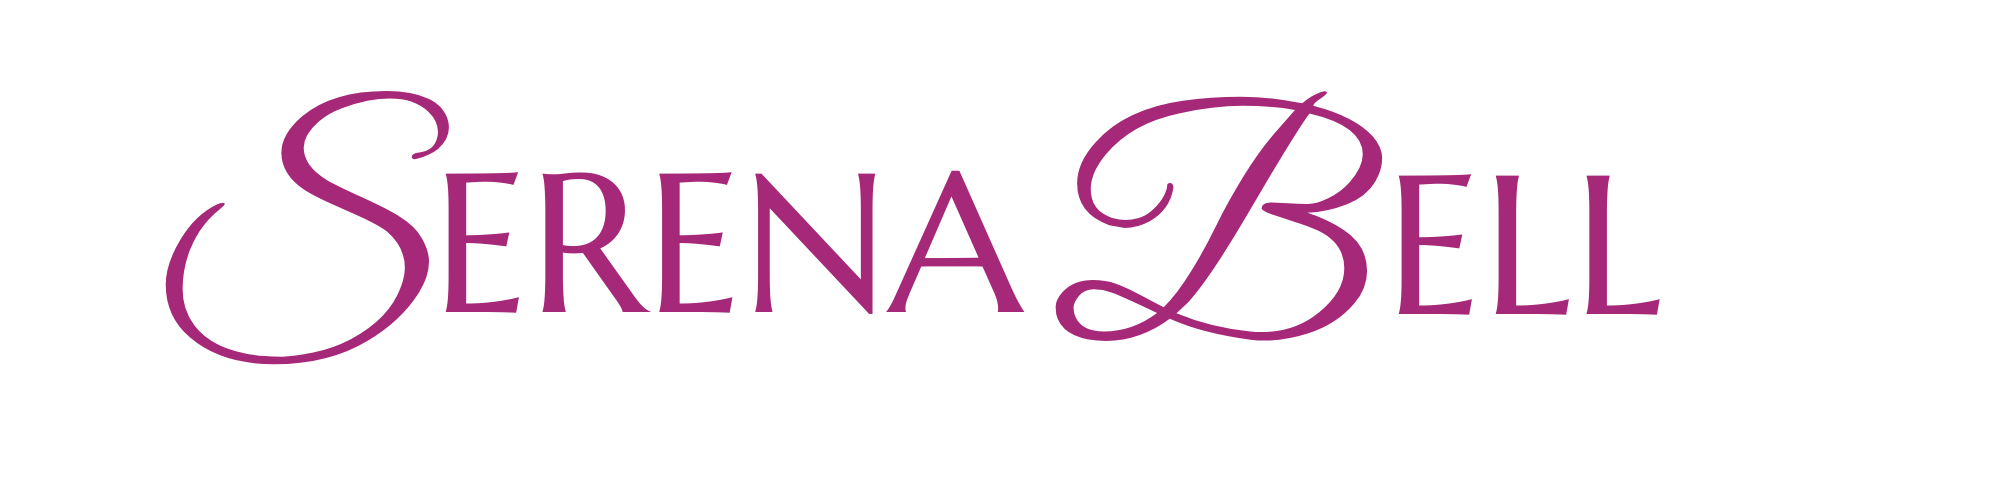
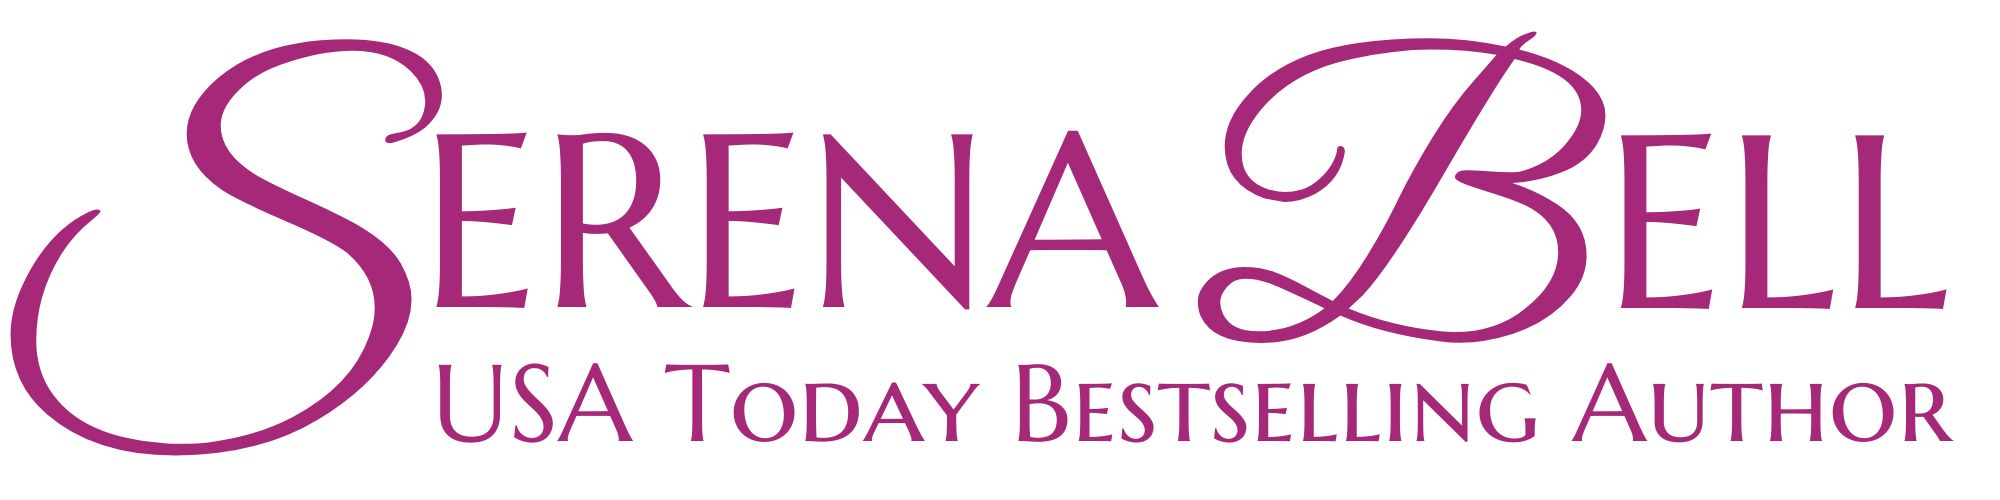
chose a color for the site background; worked on designing the site header

Changed region(s): [[0.0, 0.06, 0.992, 0.93], [0.031, 0.42, 0.062, 0.48]]

diff --git a/static/css/colors.css b/static/css/colors.css
@@ -1,3 +1,109 @@
+
+//
+.slate-gray {
+  color: #757D89;
+  &:visited {
+    color: #757D89
+  }
+}
+.bg-slate-gray {
+  background-color: #757D89;
+}
+.b--slate-gray {
+  border-color: #757D89;
+}
+.hover-bg-slate-gray {
+  &:focus,
+  &:active,
+  &:hover {
+    background-color: #757D89;
+  }
+}
+.hover-bg-slate-grayn:hover,
+.hover-bg-slate-gray:visited:hover {
+  color: #757D89;
+}
+
+//
+
+.rosy-brown {
+  color: #B88AAD;
+  &:visited {
+    color: #B88AAD
+  }
+}
+.bg-rosy-brown {
+  background-color: #B88AAD;
+}
+.b--rosy-brown {
+  border-color: #B88AAD;
+}
+.hover-bg-rosy-brown {
+  &:focus,
+  &:active,
+  &:hover {
+    background-color: #B88AAD;
+  }
+}
+.hover-bg-rosy-brown:hover,
+.hover-bg-rosy-brown:visited:hover {
+  color: #B88AAD;
+}
+
+//
+
+.old-rose {
+  color: #A62878;
+  &:visited {
+    color: #A62878
+  }
+}
+.bg-old-rose {
+  background-color: #A62878;
+}
+.b--old-rose {
+  border-color: #A62878;
+}
+.hover-bg-old-rose {
+  &:focus,
+  &:active,
+  &:hover {
+    background-color: #A62878;
+  }
+}
+.hover-bg-old-rose:hover,
+.hover-bg-old-rose:visited:hover {
+  color: #A62878;
+}
+
+//
+
+.barely-lsb {
+  color: #f0f4fa;
+  &:visited {
+    color: #f0f4fa
+  }
+}
+.bg-barely-lsb {
+  background-color: #f0f4fa;
+}
+.b--barely-lsb {
+  border-color: #f0f4fa;
+}
+.hover-bg-barely-lsb {
+  &:focus,
+  &:active,
+  &:hover {
+    background-color: #f0f4fa;
+  }
+}
+.hover-bg-barely-lsb:hover,
+.hover-bg-barely-lsb:visited:hover {
+  color: #f0f4fa;
+}
+
+//
+
 .dark-slate-gray {
   color: #3A4454;
   &:visited {
@@ -21,6 +127,8 @@
 .hover-bg-dark-slate-gray:visited:hover {
   color: #3A4454;
 }
+
+//
 
 .light-steel-blue {
   color: #D5D9DF;

diff --git a/layouts/partials/site-header.html b/layouts/partials/site-header.html
@@ -2,10 +2,10 @@
 {{/* Trimming the slash and adding absURL make sure the image works no matter where our site lives */}}
 {{ $featured_image := (trim $featured_image "/") | absURL }}
 <header class="cover bg-top" style="background-image: url('{{ $featured_image }}');">
-      <div class="tc-l pt4 pt6-l pb0 ph3 ph4-ns mb0">
+      <div class="tc pt5 pt6-l pb0 ph3 ph4-ns mb0">
 		<img src="/images/transparent-sb-script.png" class="mw-4 mh-2" alt="Serena Bell script">
       </div>
-	  <div class="tc-l pt0 pt0-l mt0 pb4 pb6-l">
+	  <div class="tc pt0 pt0-l mt0 pb4 pb6-l">
 		  {{ partialCached "social-follow.html" . }}
 	  </div>
 	 <div class="tc-l {{ .Site.Params.background_color_class | default "bg-black" }}">

diff --git a/layouts/partials/site-navigation.html b/layouts/partials/site-navigation.html
@@ -1,11 +1,12 @@
 <nav class="pv3 ph3 ph4-ns" role="navigation">
- <div class="flex-l justify-between items-center center">
     <div class="flex-l center items-center">
       {{ partial "i18nlist.html" . }}
 	  
       {{ if .Site.Menus.main }}
-        <ul class="pl0 mr3">
+        <ul class="tc lh-copy pl0 mr3 ml3">
+	     
           {{ range .Site.Menus.main }}
+		    
           <li class="list f5 f4-ns fw4 dib pr3">
             <a class="hover-white no-underline white-90" href="{{ .URL }}" title="{{ .Name }} page">
               {{ .Name }}
@@ -16,5 +17,4 @@
       {{ end }}
 	     
     </div>
-  </div>
 </nav>

diff --git a/layouts/_default/baseof.html b/layouts/_default/baseof.html
@@ -48,7 +48,7 @@
     {{ end }}
   </head>
 
-  <body class="ma0 {{ $.Param "body_classes"  | default "avenir bg-near-white"}}{{ with getenv "HUGO_ENV" }} {{ . }}{{ end }}">
+  <body class="ma0 {{ $.Param "body_classes"  | default "avenir bg-barely-lsb"}}{{ with getenv "HUGO_ENV" }} {{ . }}{{ end }}">
 
     {{ block "header" . }}{{ partial "site-header.html" .}}{{ end }}
     <main class="pb7" role="main">

diff --git a/layouts/books/single.html b/layouts/books/single.html
@@ -18,7 +18,7 @@
       
     </header>
 	
-    <div class="nested-copy-line-height lh-copy serif f4 nested-links nested-img mid-gray pr4-l w-two-thirds-l">
+    <div class="nested-copy-line-height lh-copy athelas serif f4 nested-links nested-img dark-slate-gray pr4-l w-two-thirds-l">
 	  {{ partial "buttons.html" . }}	
     </div>	
 	
